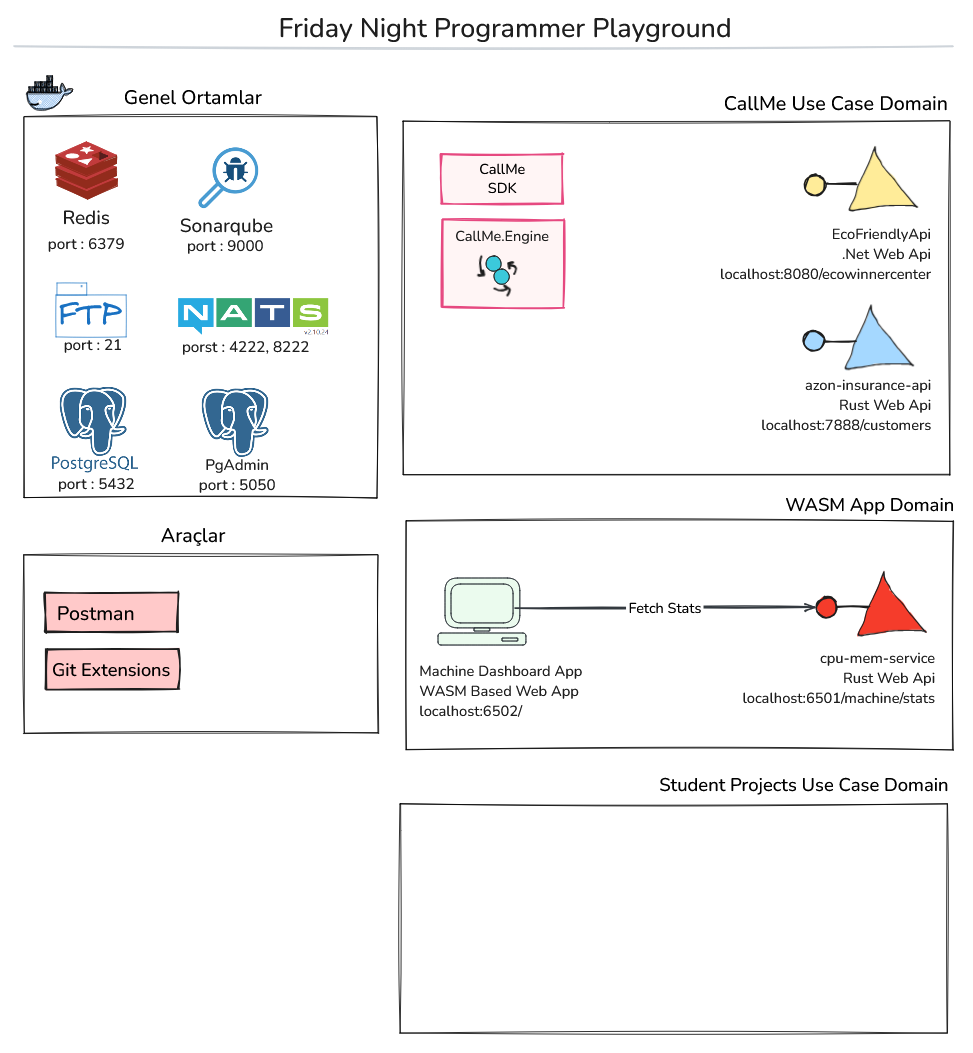
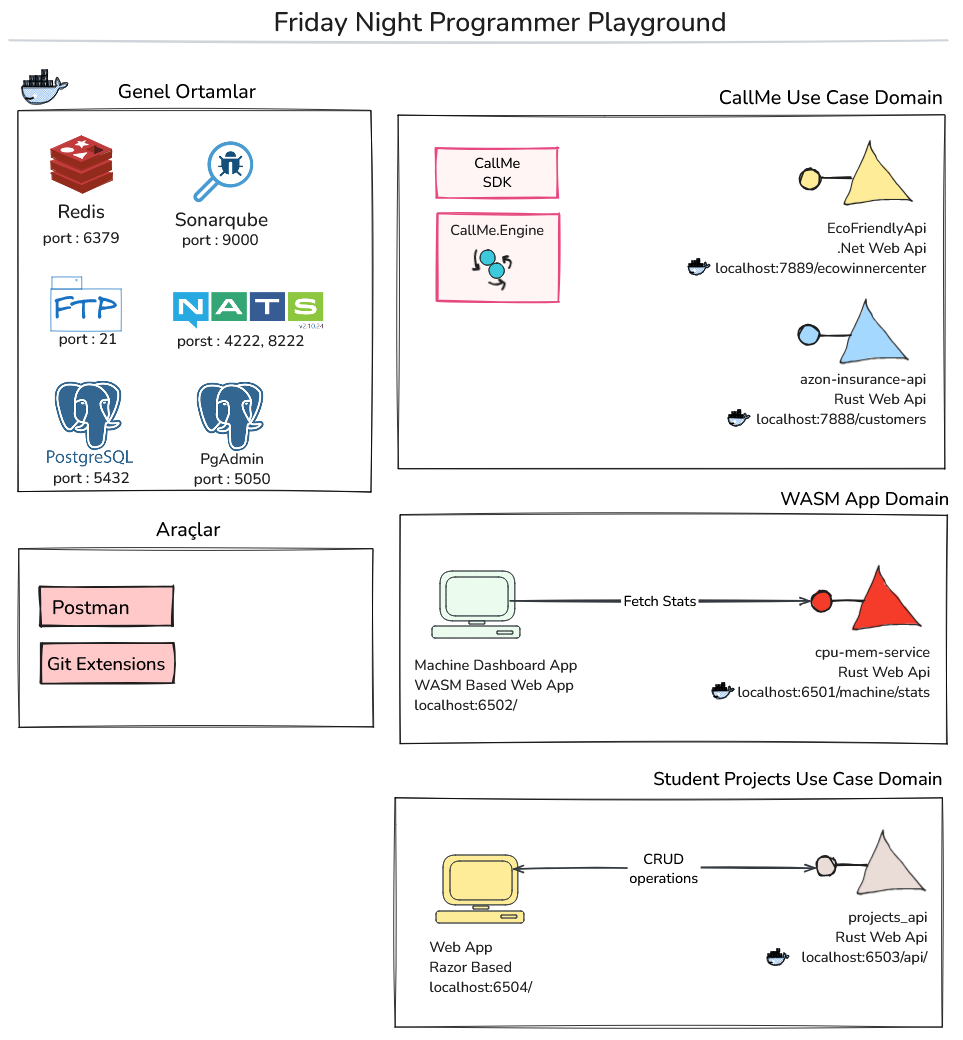
Updated environment

Changed region(s): [[0.0, 0.0, 0.9969, 1.0], [0.6542, 0.8, 0.7165, 0.8615], [0.7788, 0.8923, 0.81, 0.9231]]

diff --git a/README.md b/README.md
@@ -34,7 +34,7 @@ Genel Ortamlar başlığı altında yer alan enstrümanlar docker-compose üzeri
 docker-compose up -d
 ```
 
-Bununla birlikte servislerin sayısı arttıkça onları nasıl çağırdığımızı da unutabiliriz. Var olan ve ilerleyen zamanlarda eklenemsi düşünülen servisler için bir Postman koleksiyonundan yararlanılması iyi olacaktır. İlgili dosyaya [buradan](Friday%20Night%20Programmer.postman_collection.json) ulaşabilirsiniz.
+Bununla birlikte servislerin sayısı arttıkça onları nasıl çağırdığımızı da unutabiliriz. Var olan ve ilerleyen zamanlarda eklenemsi düşünülen servisler için bir Postman koleksiyonundan yararlanılması iyi olacaktır. İlgili dosyaya [buradan](Friday%20Night%20Programmer.postman_collection.json) ulaşabilirsiniz. Bu arada yer yer api adreslerini Environment değişkenleri ile de tutmak yararlı olabilir. Örneğin project_api servisi için docker adresi environment değişkeni olarak eklenmiştir. Bu anlamda [Environment](Docker%20Environment.postman_environment.json) dosyasını Postman ortamına aktarmakta yarar var.
 
 ## Yardımcı Dokümanlar
 
